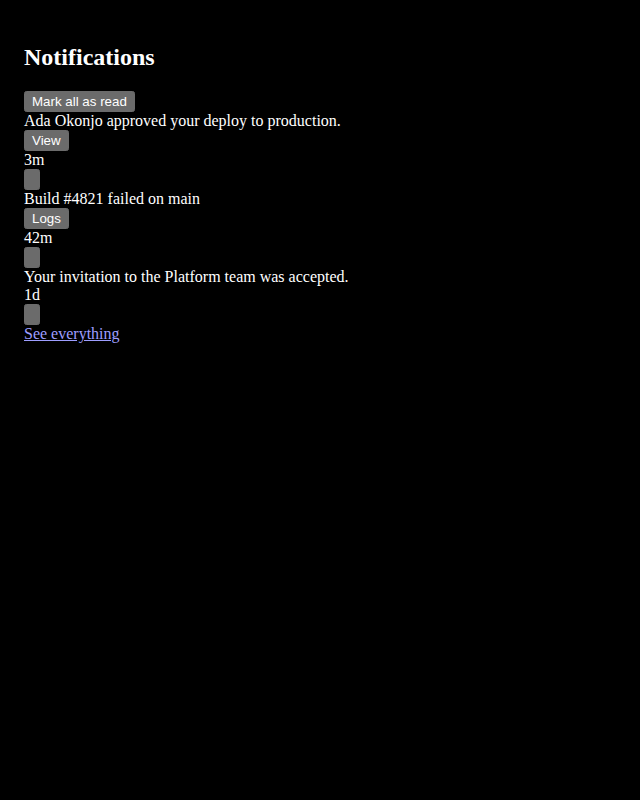
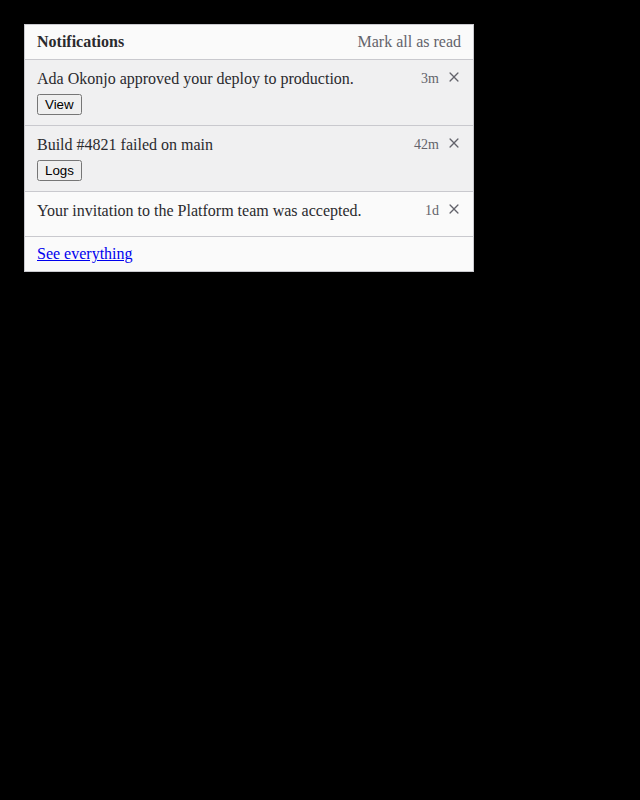
docs(headless): draw the notifications feed a consumer has to style
Every other headless family with a preview ships a diagram sheet, and this one
rendered as bare text with unlabeled buttons: nothing showed which parts make a
feed. The sheet is skeletal like its siblings, grays only and no token, and an
unread item is told apart by a fill rather than a colored dot.

Changed region(s): [[0.0312, 0.0312, 0.75, 0.4375]]

diff --git a/helix/headless/src/notifications/.examples/preview.css b/helix/headless/src/notifications/.examples/preview.css
@@ -1,0 +1,120 @@
+/* What the headless tier asks a consumer to write for Notifications.
+ *
+ * Deliberately skeletal: a diagram of what has to be styled, not a theme to
+ * copy. No token, because `headless` does not depend on `helix/styles`, and no
+ * corner radius, because rounding says how a thing should feel and that is not
+ * this tier's to say.
+ *
+ * **Grays, and only grays.** An unread item is told apart by a fill rather than
+ * a colored dot, since a hue here would read as an opinion this tier does not
+ * hold. The values are named by role and underscored because they never leave
+ * this file, and written through `light-dark()` so the sandbox's dark mode
+ * inverts rather than showing a pale feed on a dark page. */
+
+:root {
+  color-scheme: light dark;
+  --_gray-surface: light-dark(#fafafa, #18181b);
+  --_gray-subtle: light-dark(#f0f0f1, #232326);
+  --_gray-line: light-dark(#c9c9ce, #45454b);
+  --_gray-mark: light-dark(#8e8e96, #86868f);
+  --_gray-muted: light-dark(#63636b, #a1a1aa);
+  --_gray-strong: light-dark(#2a2a2e, #e9e9ec);
+}
+
+helix-headless-notifications {
+  background-color: var(--_gray-surface);
+  border: 1px solid var(--_gray-line);
+  color: var(--_gray-strong);
+  display: block;
+  max-inline-size: 28rem;
+}
+
+helix-headless-notifications::part(header) {
+  align-items: center;
+  border-block-end: 1px solid var(--_gray-line);
+  display: flex;
+  gap: 0.75rem;
+  justify-content: space-between;
+  padding: 0.5rem 0.75rem;
+}
+
+helix-headless-notifications h2 {
+  font-size: 1rem;
+  margin: 0;
+}
+
+helix-headless-notifications::part(list) {
+  display: flex;
+  flex-direction: column;
+}
+
+helix-headless-notifications::part(footer) {
+  border-block-start: 1px solid var(--_gray-line);
+  padding: 0.5rem 0.75rem;
+}
+
+helix-headless-notifications::part(mark-all),
+helix-headless-notification::part(dismiss) {
+  all: unset;
+  box-sizing: border-box;
+  color: var(--_gray-muted);
+  cursor: pointer;
+}
+
+/* The keyboard reaches both, so the ring goes on both. Taking the UA outline
+   off without putting one back is the commonest way a headless control stops
+   being operable without a pointer. */
+helix-headless-notifications::part(mark-all):focus-visible,
+helix-headless-notification::part(dismiss):focus-visible {
+  outline: 2px solid var(--_gray-mark);
+  outline-offset: 2px;
+}
+
+helix-headless-notification::part(item) {
+  align-items: start;
+  display: flex;
+  gap: 0.75rem;
+  padding: 0.625rem 0.75rem;
+}
+
+helix-headless-notification:not(:state(read))::part(item) {
+  background-color: var(--_gray-subtle);
+}
+
+helix-headless-notification + helix-headless-notification::part(item) {
+  border-block-start: 1px solid var(--_gray-line);
+}
+
+/* An empty media slot still takes a gap in the row, and only the feed knows
+   whether any item filled one. */
+helix-headless-notifications:not(:state(media)) helix-headless-notification::part(media) {
+  display: none;
+}
+
+helix-headless-notification::part(body) {
+  display: flex;
+  flex: 1;
+  flex-direction: column;
+  gap: 0.375rem;
+  min-inline-size: 0;
+}
+
+helix-headless-notification::part(actions) {
+  display: flex;
+  gap: 0.5rem;
+}
+
+helix-headless-notification::part(trailing) {
+  align-items: center;
+  color: var(--_gray-muted);
+  display: flex;
+  flex: none;
+  font-size: 0.875em;
+  gap: 0.5rem;
+}
+
+helix-headless-notification::part(dismiss-mark) {
+  block-size: 1em;
+  display: block;
+  inline-size: 1em;
+}

diff --git a/helix/headless/src/notifications/.examples/preview.html b/helix/headless/src/notifications/.examples/preview.html
@@ -1,5 +1,10 @@
-<!-- @summary A feed with unread items and no paint of its own. -->
+<!-- @summary A feed with unread items, with every rule written by hand. -->
 <!-- @layout padded -->
+
+<link
+  href="styles.css"
+  rel="stylesheet"
+/>
 
 <helix-headless-notifications
   id="raw"

diff --git a/helix/headless/src/notifications/.examples/preview.tsx b/helix/headless/src/notifications/.examples/preview.tsx
@@ -1,3 +1,4 @@
+import './preview.css'
 import { useEffect, useState } from 'react'
 
 const ago = (minutes: number): string => new Date(Date.now() - minutes * 60000).toISOString()
